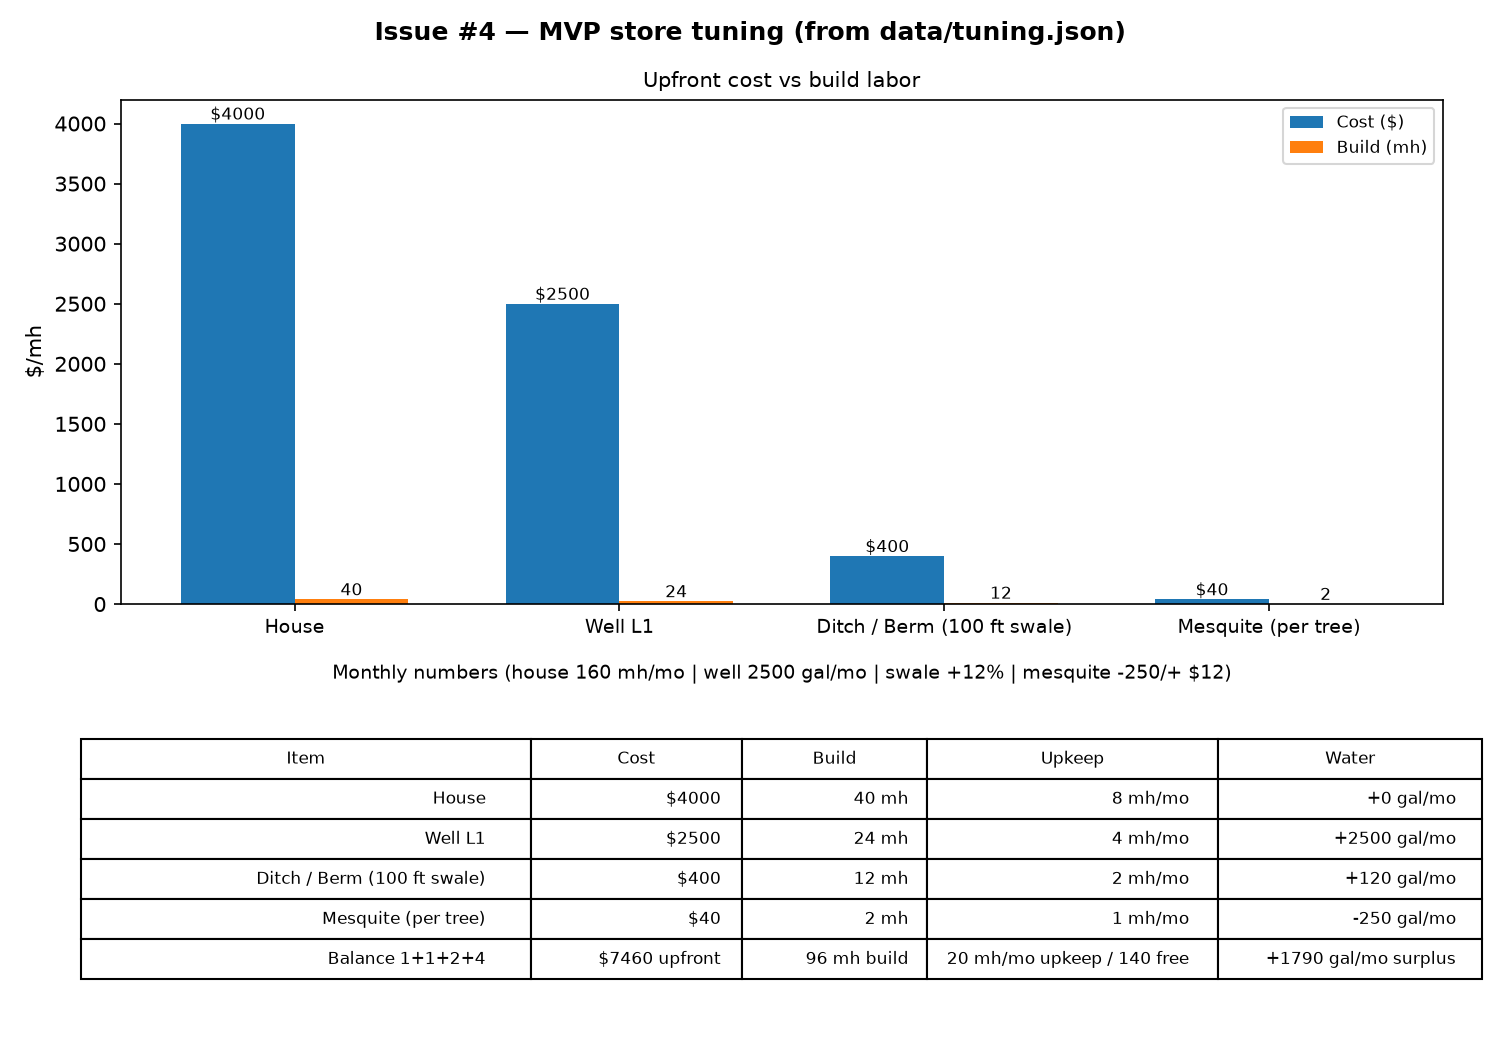
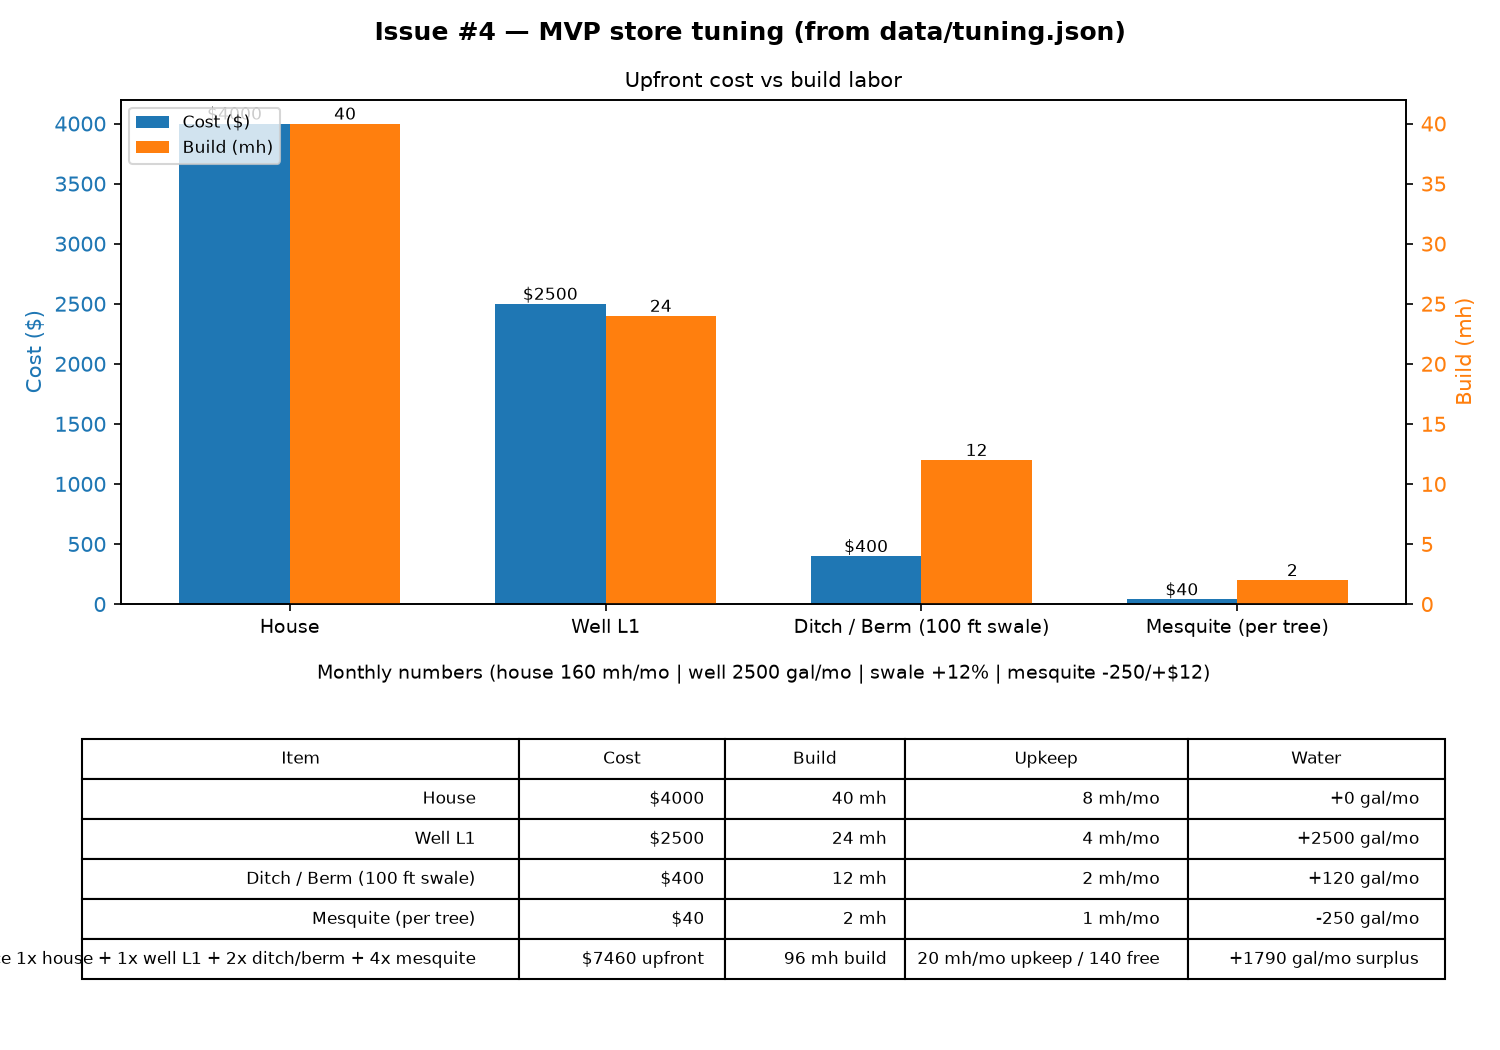
fix(store): address cubic review on tuning JSON + validator + chart (#4)
- tuning.json: 40mh starting grant covers house build; split money
  pre-yield/mature (-95/-47); numeric water_per_mo_gal=1790 + note
- validate_tuning.py: require upkeep_usd_per_mo; reject dup ids/count;
  per-item nonnegative ranges (type-guarded); no asserts (python -O
  safe); validate monthly money + water; accurate PASS line
- generate_chart.py: declared matplotlib dep; twin $mh axes;
  balance row + titles derived from tuning.json
- README + validator_output.txt regenerated to match

diff --git a/scripts/validate_tuning.py b/scripts/validate_tuning.py
@@ -1,12 +1,16 @@
 #!/usr/bin/env python3
 """Validate data/tuning.json for issue #4.
 
-Checks: JSON parses, 4 required item ids present, required fields/types,
-per-item rules (house/well/ditch/mesquite), and balance-check arithmetic
-against meta.sim_baseline.balance_check_monthly.
+Checks: JSON parses, expected item ids present exactly once, required
+fields/types (all units in REQUIRED_ALL), per-item rules (house/well/
+ditch/mesquite), nonnegative cost/labor ranges, opening labor-grant
+feasibility, and balance-check arithmetic (upfront money/labor, monthly
+labor, monthly money pre-yield + mature, monthly water surplus) against
+meta.sim_baseline.
 """
 import json
 import sys
+from collections import Counter
 from pathlib import Path
 
 ROOT = Path(__file__).resolve().parents[1]
@@ -21,6 +25,7 @@ REQUIRED_ALL = {
     "cost_usd": ("$", (int, float)),
     "build_manhours": ("mh", (int, float)),
     "upkeep_manhours_per_mo": ("mh/mo", (int, float)),
+    "upkeep_usd_per_mo": ("$/mo", (int, float)),
     "water_gal_per_mo": ("gal/mo", (int, float)),
 }
 
@@ -29,6 +34,15 @@ errors = []
 
 def fail(msg):
     errors.append(msg)
+
+
+def is_num(x):
+    return isinstance(x, (int, float)) and not isinstance(x, bool)
+
+
+def check_equal(label, actual, expected):
+    if actual != expected:
+        fail(f"{label} mismatch: got {actual!r}, expected {expected!r}")
 
 
 def main():
@@ -51,9 +65,23 @@ def main():
         return report()
 
     items = data["items"]
-    by_id = {i.get("id"): i for i in items if isinstance(i, dict)}
-    if sorted(by_id) != sorted(EXPECTED_IDS):
-        fail(f"item ids {sorted(by_id)} != expected {sorted(EXPECTED_IDS)}")
+    if not isinstance(items, list):
+        fail("items must be a list")
+        return report()
+
+    # Reject duplicate IDs and count mismatches before collapsing into a map.
+    ids = [i.get("id") if isinstance(i, dict) else None for i in items]
+    dupes = sorted(k for k, n in Counter(ids).items() if n > 1)
+    if dupes:
+        fail(f"duplicate item ids: {dupes}")
+    if len(items) != len(EXPECTED_IDS):
+        fail(f"item count {len(items)} != expected {len(EXPECTED_IDS)}")
+    if sorted(i for i in ids if isinstance(i, str)) != sorted(EXPECTED_IDS):
+        fail(f"item ids {sorted(i for i in ids if isinstance(i, str))} != expected {sorted(EXPECTED_IDS)}")
+    if errors:
+        print(f"OK: 4 items check attempted, errors found")
+        return report()
+    by_id = {i["id"]: i for i in items if isinstance(i, dict)}
     print(f"OK: 4 items {sorted(by_id)}")
 
     for item_id in EXPECTED_IDS:
@@ -76,24 +104,63 @@ def main():
         fail("ditch_berm.retention_percent must be 12 (%)")
     if m.get("water_need_gal_per_mo") != 250 or m.get("yield_usd_per_mo") != 12:
         fail("mesquite needs water_need_gal_per_mo=250 (gal/mo) and yield_usd_per_mo=12 ($/mo)")
+    # Nonnegative ranges per item (type-guarded so malformed types FAIL cleanly).
     for k in EXPECTED_IDS:
-        if by_id.get(k, {}).get("cost_usd", -1) < 0:
-            fail(f"{k}.cost_usd must be >= 0 ($)")
-    print("OK: per-item rules (house mh/mo, well pump, ditch retention, mesquite need/yield)")
+        it = by_id.get(k, {})
+        for field in ("cost_usd", "build_manhours", "upkeep_manhours_per_mo",
+                      "upkeep_usd_per_mo", "water_gal_per_mo"):
+            v = it.get(field)
+            if field in it and field != "water_gal_per_mo":
+                if not is_num(v):
+                    fail(f"{k}.{field} must be numeric, got {v!r}")
+                elif v < 0:
+                    fail(f"{k}.{field} must be >= 0, got {v!r}")
+    print("OK: per-item rules (house mh/mo, well pump, ditch retention, mesquite need/yield; nonnegative cost/labor)")
+
+    # opening labor-grant feasibility: the grant must cover the first build.
+    try:
+        base = data["meta"]["sim_baseline"]
+        grant = base.get("starting_manhours_mh")
+        if not is_num(grant):
+            fail(f"sim_baseline.starting_manhours_mh must be numeric, got {grant!r}")
+        elif grant < h.get("build_manhours", float("inf")):
+            fail(f"starting grant {grant} mh cannot cover first house build {h.get('build_manhours')} mh")
+        else:
+            print(f"OK: starting grant {grant} mh covers house build {h.get('build_manhours')} mh")
+    except (KeyError, TypeError) as e:
+        fail(f"starting-grant check failed: {e}")
 
     # balance arithmetic: 1 house + 1 well + 2 ditch + 4 mesquite
+    # (explicit conditionals: must also hold under `python -O`).
     try:
         money = h["cost_usd"] + w["cost_usd"] + 2 * d["cost_usd"] + 4 * m["cost_usd"]
         labor = h["build_manhours"] + w["build_manhours"] + 2 * d["build_manhours"] + 4 * m["build_manhours"]
         up_mh = h["upkeep_manhours_per_mo"] + w["upkeep_manhours_per_mo"] + 2 * d["upkeep_manhours_per_mo"] + 4 * m["upkeep_manhours_per_mo"]
         free_mh = h["provides_manhours_per_mo"] - up_mh
-        bc = data["meta"]["sim_baseline"]["balance_check_monthly"]
-        assert money == bc["money_upfront_usd"] == 7460, f"money {money}"
-        assert labor == bc["labor_upfront_mh"] == 96, f"labor {labor}"
-        assert up_mh == bc["upkeep_mh_per_mo"] == 20, f"upkeep {up_mh}"
-        assert free_mh == bc["free_mh_per_mo"] == 140, f"free {free_mh}"
-        print(f"OK: balance 1+1+2+4 -> ${money}, {labor}mh build, {up_mh}mh/mo upkeep, {free_mh}mh/mo free")
-    except (KeyError, TypeError, AssertionError) as e:
+        up_usd_pre = h["upkeep_usd_per_mo"] + w["upkeep_usd_per_mo"] + 2 * d["upkeep_usd_per_mo"]
+        money_pre = -(up_usd_pre)  # trees pay no $ upkeep pre-yield
+        money_mature = money_pre + 4 * m["yield_usd_per_mo"]
+        rain_ref = base["rainfall_reference_gal_per_mo"]
+        base_cap = base["base_rain_capture_gal_per_mo"]
+        water = w["pump_gal_per_mo"] + base_cap + 2 * d["water_gal_per_mo"] + 4 * m["water_gal_per_mo"]
+        bc = base["balance_check_monthly"]
+        check_equal("money_upfront_usd", money, bc.get("money_upfront_usd"))
+        check_equal("money_upfront_usd vs 7460", money, 7460)
+        check_equal("labor_upfront_mh", labor, bc.get("labor_upfront_mh"))
+        check_equal("labor_upfront_mh vs 96", labor, 96)
+        check_equal("upkeep_mh_per_mo", up_mh, bc.get("upkeep_mh_per_mo"))
+        check_equal("free_mh_per_mo", free_mh, bc.get("free_mh_per_mo"))
+        check_equal("provided_mh_per_mo", h.get("provides_manhours_per_mo"), bc.get("provided_mh_per_mo"))
+        check_equal("money_per_mo_usd_pre_yield", money_pre, bc.get("money_per_mo_usd_pre_yield"))
+        check_equal("money_per_mo_usd_mature", money_mature, bc.get("money_per_mo_usd_mature"))
+        if not is_num(bc.get("water_per_mo_gal")) or isinstance(bc.get("water_per_mo_gal"), bool):
+            fail(f"balance_check_monthly.water_per_mo_gal must be numeric (gal/mo), got {bc.get('water_per_mo_gal')!r}")
+        else:
+            check_equal("water_per_mo_gal", water, bc.get("water_per_mo_gal"))
+        check_equal("rainfall_reference_gal_per_mo vs 1000", rain_ref, 1000)
+        print(f"OK: balance 1+1+2+4 -> ${money}, {labor}mh build, {up_mh}mh/mo upkeep, {free_mh}mh/mo free, "
+              f"{money_pre}/{money_mature}$/mo pre/mature, {water:+}gal/mo water")
+    except (KeyError, TypeError) as e:
         fail(f"balance arithmetic mismatch: {e}")
 
     return report()
@@ -105,7 +172,8 @@ def report():
         for e in errors:
             print(f"  - {e}")
         return 1
-    print("PASS: data/tuning.json valid (units $, mh, gal/mo, % consistent with water/money/manhours/rain sim)")
+    print("PASS: data/tuning.json valid (ids/fields/types, per-item rules, nonnegative ranges, "
+          "starting-grant feasibility, upfront/labor/monthly-money/monthly-water balance)")
     return 0
 
 

diff --git a/docs/evidence/4/generate_chart.py b/docs/evidence/4/generate_chart.py
@@ -1,9 +1,22 @@
 #!/usr/bin/env python3
-"""Generate docs/evidence/4/store_tuning.png from data/tuning.json (issue #4)."""
+"""Generate docs/evidence/4/store_tuning.png from data/tuning.json (issue #4).
+
+Requires matplotlib (not in the stdlib). Setup from a fresh checkout::
+
+    pip install matplotlib
+    python3 docs/evidence/4/generate_chart.py
+
+Balance-row numbers and panel titles are derived from data/tuning.json, so
+regenerating the chart after a tuning change cannot leave stale figures.
+"""
 import json
+import sys
 from pathlib import Path
 
-import matplotlib
+try:
+    import matplotlib
+except ImportError:
+    sys.exit("generate_chart.py requires matplotlib: pip install matplotlib")
 
 matplotlib.use("Agg")
 import matplotlib.pyplot as plt
@@ -11,6 +24,8 @@ import matplotlib.pyplot as plt
 ROOT = Path(__file__).resolve().parents[3]
 data = json.loads((ROOT / "data" / "tuning.json").read_text())
 items = {i["id"]: i for i in data["items"]}
+base = data["meta"]["sim_baseline"]
+bc = base["balance_check_monthly"]
 order = ["house", "well_l1", "ditch_berm", "mesquite"]
 labels = [items[k]["name"] for k in order]
 
@@ -21,14 +36,22 @@ costs = [items[k]["cost_usd"] for k in order]
 builds = [items[k]["build_manhours"] for k in order]
 x = range(len(order))
 w = 0.35
-ax1.bar([p - w / 2 for p in x], costs, width=w, label="Cost ($)")
-ax1.bar([p + w / 2 for p in x], builds, width=w, label="Build (mh)")
+ax1.bar([p - w / 2 for p in x], costs, width=w, label="Cost ($)", color="tab:blue")
+ax1.set_ylabel("Cost ($)", color="tab:blue")
+ax1.tick_params(axis="y", labelcolor="tab:blue")
+# Separate labor axis: build labor (mh) is ~100x smaller than costs ($),
+# so sharing one y-axis would render the build bars nearly invisible.
+ax1b = ax1.twinx()
+ax1b.bar([p + w / 2 for p in x], builds, width=w, label="Build (mh)", color="tab:orange")
+ax1b.set_ylabel("Build (mh)", color="tab:orange")
+ax1b.tick_params(axis="y", labelcolor="tab:orange")
 for i, (c, b) in enumerate(zip(costs, builds)):
     ax1.text(i - w / 2, c, f"${c}", ha="center", va="bottom", fontsize=8)
-    ax1.text(i + w / 2, b, f"{b}", ha="center", va="bottom", fontsize=8)
+    ax1b.text(i + w / 2, b, f"{b}", ha="center", va="bottom", fontsize=8)
 ax1.set_xticks(list(x), labels, fontsize=9)
-ax1.set_ylabel("$/mh")
-ax1.legend(fontsize=8)
+lines1, labels1 = ax1.get_legend_handles_labels()
+lines2, labels2 = ax1b.get_legend_handles_labels()
+ax1.legend(lines1 + lines2, labels1 + labels2, fontsize=8, loc="upper left")
 ax1.set_title("Upfront cost vs build labor", fontsize=10)
 
 ax2.axis("off")
@@ -37,14 +60,24 @@ rows = [
      f"{items[k]['upkeep_manhours_per_mo']} mh/mo", f"{items[k]['water_gal_per_mo']:+} gal/mo"]
     for k in order
 ]
-rows.append(["Balance 1+1+2+4", "$7460 upfront", "96 mh build", "20 mh/mo upkeep / 140 free", "+1790 gal/mo surplus"])
+rows.append([f"Balance {bc['setup']}",
+             f"${bc['money_upfront_usd']} upfront",
+             f"{bc['labor_upfront_mh']} mh build",
+             f"{bc['upkeep_mh_per_mo']} mh/mo upkeep / {bc['free_mh_per_mo']} free",
+             f"{bc['water_per_mo_gal']:+} gal/mo surplus"])
 t = ax2.table(cellText=rows,
               colLabels=["Item", "Cost", "Build", "Upkeep", "Water"],
               loc="center", colWidths=[0.34, 0.16, 0.14, 0.22, 0.20])
 t.auto_set_font_size(False)
 t.set_fontsize(8)
 t.scale(1, 1.4)
-ax2.set_title("Monthly numbers (house 160 mh/mo | well 2500 gal/mo | swale +12% | mesquite -250/+ $12)", fontsize=9)
+h, wl, d, m = (items[k] for k in order)
+ax2.set_title(
+    f"Monthly numbers (house {h['provides_manhours_per_mo']} mh/mo | "
+    f"well {wl['pump_gal_per_mo']} gal/mo | "
+    f"swale +{d['retention_percent']}% | "
+    f"mesquite {m['water_gal_per_mo']:+}/+${m['yield_usd_per_mo']})",
+    fontsize=9)
 
 out = ROOT / "docs" / "evidence" / "4" / "store_tuning.png"
 fig.tight_layout()

diff --git a/data/README.md b/data/README.md
@@ -21,7 +21,7 @@ Tree removal (dead or alive) costs 1 mh (per #1); not in table.
 Setup: 1× house + 1× well L1 + 2× ditch/berm + 4× mesquite:
 
 - Money upfront: 4000 + 2500 + 2·400 + 4·40 = **$7460** (start $10,000 → $2540 left)
-- Labor upfront: 40 + 24 + 2·12 + 4·2 = **96 mh** (build order: house first, player starts at 0 mh)
+- Labor upfront: 40 + 24 + 2·12 + 4·2 = **96 mh** (build order: house first, paid from the 40 mh starting grant in `sim_baseline`)
 - Monthly labor: upkeep 8+4+2·2+4·1 = 20 mh vs 160 provided → **140 mh free** for expansion
 - Monthly money: −80 −15 + 0 (trees pre-yield) = **−$95/mo**; at maturity +4·12 = **−$47/mo** (slight burn → pressure to scale to ~8–10 trees/well, 5-yr arc per #1)
 - Monthly water: +2500 pump + (50 base + 2·120 capture) − 4·250 demand = **+1790 gal surplus** (room for ~7 more trees per well; over-pumping without swales loses)
@@ -32,9 +32,13 @@ Setup: 1× house + 1× well L1 + 2× ditch/berm + 4× mesquite:
 python3 scripts/validate_tuning.py
 ```
 
-Checks: JSON parses, exactly these 4 item ids, all required fields present with correct units/types,
-house `provides_manhours_per_mo`, well `pump_gal_per_mo`, ditch `retention_percent`, mesquite `water_need_gal_per_mo` + `yield_usd_per_mo`,
-and the balance-check arithmetic above. Evidence chart: `docs/evidence/4/store_tuning.png` (generated from `tuning.json`).
+Checks: JSON parses; exactly these 4 item ids, each once (duplicates and count mismatches fail);
+all required fields present with correct units/types (including `upkeep_usd_per_mo`);
+house `provides_manhours_per_mo`, well `pump_gal_per_mo`, ditch `retention_percent`, mesquite `water_need_gal_per_mo` + `yield_usd_per_mo`;
+nonnegative cost/labor ranges per item; starting-grant (`starting_manhours_mh`) covers the first house build;
+and the balance-check arithmetic above (upfront money/labor, monthly labor, monthly money pre-yield + mature, monthly water surplus).
+It does not check unit-label strings in `meta.units` or seasonal rain variation (fixed 1000 gal/mo reference).
+Evidence chart: `docs/evidence/4/store_tuning.png` (generated from `tuning.json` via `docs/evidence/4/generate_chart.py`, requires `pip install matplotlib`).
 
 ## Full field reference
 
